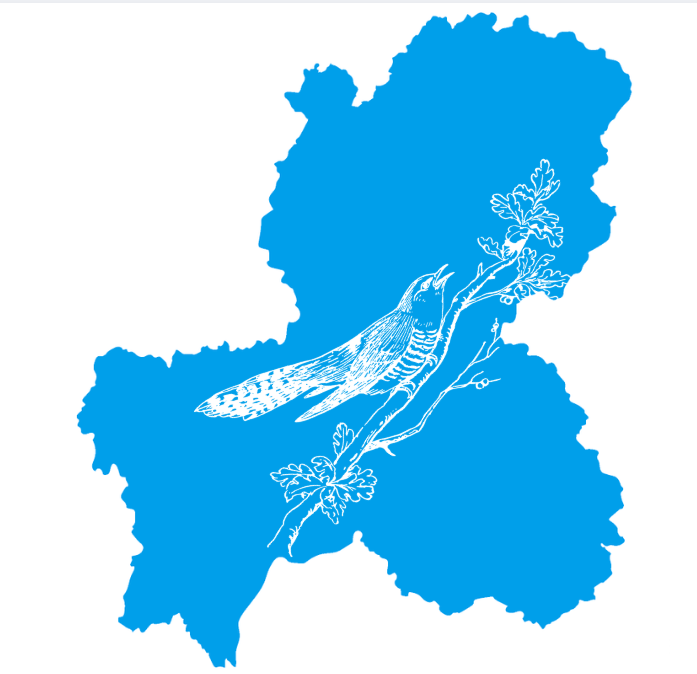
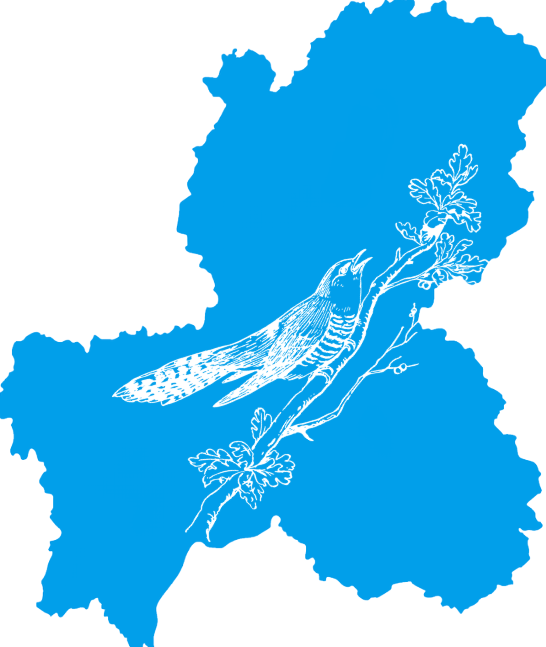
画像ダウンロードページを実装・画像ファイルを更新
- testver: ダウンロードページを準備中からカードグリッド型の画像DLページに変更
- 画像3枚（ぽぽりん・ポポと岐阜・ぽぽりんロゴ）のプレビュー＋DLボタン
- ポポと岐阜.png・ぽぽりんロゴ透過.png を最新版に更新
- 画像サイズ表記を実サイズに修正（800×800 / 546×647 / 1500×500）
- ガイドラインへのページ内リンクを script.js に追加

Changed region(s): [[0.0, 0.0, 1.0, 1.0], [0.4982, 0.0927, 0.5604, 0.1546], [0.5604, 0.0618, 0.5916, 0.0927]]

diff --git a/testver/index.html b/testver/index.html
@@ -8,7 +8,7 @@
     <meta http-equiv="Pragma" content="no-cache">
     <meta http-equiv="Expires" content="0">
     <title>ぽぽりん 公式サイト</title>
-    <link rel="stylesheet" href="style.css?v=20260510">
+    <link rel="stylesheet" href="style.css?v=20260510b">
     <link rel="preconnect" href="https://fonts.googleapis.com">
     <link rel="preconnect" href="https://fonts.gstatic.com" crossorigin>
     <link href="https://fonts.googleapis.com/css2?family=Barlow+Condensed:wght@700;800&family=M+PLUS+1p:wght@400;700;800&display=swap" rel="stylesheet">
@@ -217,18 +217,66 @@
         </section>
 
         <!-- ダウンロードページ -->
-        <section id="page-download" class="scene scene-empty">
-            <div class="empty">
-                <div class="empty__watermark" aria-hidden="true">DOWNLOAD</div>
-                <svg class="empty__svg" viewBox="0 0 64 64" fill="none" xmlns="http://www.w3.org/2000/svg" aria-hidden="true">
-                    <line x1="32" y1="8" x2="32" y2="42" stroke="currentColor" stroke-width="2.5" stroke-linecap="round"/>
-                    <polyline points="20,30 32,42 44,30" stroke="currentColor" stroke-width="2.5" stroke-linecap="round" stroke-linejoin="round"/>
-                    <path d="M8 46v8a2 2 0 002 2h44a2 2 0 002-2v-8" stroke="currentColor" stroke-width="2.5" stroke-linecap="round"/>
-                </svg>
-                <span class="empty__en">COMING SOON</span>
-                <h2 class="empty__title">ダウンロード</h2>
-                <div class="empty__rule"></div>
-                <p class="empty__sub">準備中...</p>
+        <section id="page-download" class="scene scene-download">
+            <div class="dl-page-wrap">
+
+                <header class="scene-header appear-up">
+                    <span class="scene-header__en">IMAGE DOWNLOAD</span>
+                    <h2 class="scene-header__title">画像ダウンロード</h2>
+                    <div class="scene-header__rule"></div>
+                </header>
+
+                <p class="dl-page-note appear-up">ご利用の際は<a href="#guidelines" class="dl-page-note__link">画像ガイドライン</a>をご確認ください。</p>
+
+                <div class="dl-card-grid">
+
+                    <div class="dl-card appear-up">
+                        <div class="dl-card__thumb">
+                            <img src="../画像/ぽぽりん.png" alt="ぽぽりん" class="dl-card__img">
+                        </div>
+                        <div class="dl-card__body">
+                            <span class="dl-card__label">CHARACTER</span>
+                            <h3 class="dl-card__name">ぽぽりん</h3>
+                            <p class="dl-card__desc">背景透過 PNG（800×800px）</p>
+                            <a href="../画像/ぽぽりん.png" download="ぽぽりん.png" class="dl-btn">
+                                <span class="dl-btn__icon" aria-hidden="true">↓</span>
+                                ダウンロード
+                            </a>
+                        </div>
+                    </div>
+
+                    <div class="dl-card appear-up">
+                        <div class="dl-card__thumb dl-card__thumb--illust">
+                            <img src="../画像/ポポと岐阜.png" alt="ポポと岐阜" class="dl-card__img">
+                        </div>
+                        <div class="dl-card__body">
+                            <span class="dl-card__label">ILLUSTRATION</span>
+                            <h3 class="dl-card__name">ポポと岐阜</h3>
+                            <p class="dl-card__desc">背景透過 PNG（546×647px）</p>
+                            <a href="../画像/ポポと岐阜.png" download="ポポと岐阜.png" class="dl-btn">
+                                <span class="dl-btn__icon" aria-hidden="true">↓</span>
+                                ダウンロード
+                            </a>
+                        </div>
+                    </div>
+
+                    <div class="dl-card appear-up">
+                        <div class="dl-card__thumb dl-card__thumb--logo">
+                            <img src="../画像/ぽぽりんロゴ透過.png" alt="ぽぽりんロゴ" class="dl-card__img">
+                        </div>
+                        <div class="dl-card__body">
+                            <span class="dl-card__label">LOGO</span>
+                            <h3 class="dl-card__name">ぽぽりんロゴ</h3>
+                            <p class="dl-card__desc">背景透過 PNG（1500×500px）</p>
+                            <a href="../画像/ぽぽりんロゴ透過.png" download="ぽぽりんロゴ透過.png" class="dl-btn">
+                                <span class="dl-btn__icon" aria-hidden="true">↓</span>
+                                ダウンロード
+                            </a>
+                        </div>
+                    </div>
+
+                </div>
+
             </div>
         </section>
 
@@ -457,6 +505,6 @@
         <span class="kv-footer__copy">総責任者 / Hochik1su &nbsp;|&nbsp; ぽぽりん 公式サイト</span>
     </footer>
 
-    <script src="script.js?v=20260510"></script>
+    <script src="script.js?v=20260510b"></script>
 </body>
 </html>

diff --git a/testver/style.css b/testver/style.css
@@ -886,6 +886,111 @@ main { padding-top: var(--nav-h); }
 }
 
 /* ===================================================
+   DOWNLOAD PAGE
+   =================================================== */
+.scene-download {
+    background: var(--p-bg);
+    padding: 64px 40px 80px;
+}
+
+.scene-download.active { display: block; }
+
+.dl-page-wrap {
+    max-width: 960px;
+    margin: 0 auto;
+}
+
+.dl-page-note {
+    font-size: 0.9rem;
+    color: var(--p-muted);
+    margin-bottom: 40px;
+}
+
+.dl-page-note__link {
+    color: var(--p-blue);
+    text-decoration: underline;
+    text-underline-offset: 3px;
+}
+
+.dl-card-grid {
+    display: grid;
+    grid-template-columns: repeat(3, 1fr);
+    gap: 24px;
+}
+
+.dl-card {
+    background: var(--p-surface);
+    border-radius: 16px;
+    overflow: hidden;
+    box-shadow: 0 2px 12px rgba(45, 107, 196, 0.08);
+    display: flex;
+    flex-direction: column;
+    transition: box-shadow 0.2s, transform 0.2s;
+}
+
+.dl-card:hover {
+    box-shadow: 0 6px 24px rgba(45, 107, 196, 0.16);
+    transform: translateY(-3px);
+}
+
+.dl-card__thumb {
+    height: 200px;
+    background: var(--p-bg);
+    display: flex;
+    align-items: center;
+    justify-content: center;
+    overflow: hidden;
+}
+
+.dl-card__thumb--logo {
+    background: #eef3fb;
+}
+
+.dl-card__img {
+    max-width: 100%;
+    max-height: 100%;
+    object-fit: contain;
+    padding: 16px;
+}
+
+.dl-card__body {
+    padding: 20px 20px 24px;
+    display: flex;
+    flex-direction: column;
+    gap: 6px;
+    flex: 1;
+}
+
+.dl-card__label {
+    font-family: var(--font-en);
+    font-size: 0.7rem;
+    font-weight: 700;
+    letter-spacing: 0.12em;
+    color: var(--p-blue);
+    opacity: 0.7;
+}
+
+.dl-card__name {
+    font-size: 1.25rem;
+    font-weight: 800;
+    color: var(--p-text);
+}
+
+.dl-card__desc {
+    font-size: 0.82rem;
+    color: var(--p-muted);
+    margin-bottom: 10px;
+}
+
+.dl-card .dl-btn {
+    margin-top: auto;
+    width: 100%;
+    justify-content: center;
+    font-size: 0.9rem;
+    padding: 10px 16px;
+}
+
+/* ===================================================
    SCENE HEADER（利用規約・ガイドライン共通）
    =================================================== */
 .scene-header { margin-bottom: 28px; }
@@ -1672,6 +1777,11 @@ main { padding-top: var(--nav-h); }
         transform: none;
     }
 
+    /* === DOWNLOAD === */
+    .scene-download { padding: 40px 20px 56px; }
+    .dl-card-grid { grid-template-columns: 1fr; gap: 16px; }
+    .dl-card__thumb { height: 180px; }
+
     /* === TERMS & GUIDELINES === */
     .scene-terms, .scene-guidelines { padding: 40px 20px 56px; }
     .rule-tab-btn__label { font-size: 0.7rem; }
@@ -1707,6 +1817,8 @@ main { padding-top: var(--nav-h); }
     .chapter__accent--img { height: 180px; }
 
     .scene-header__title { font-size: 1.9rem; }
+    .scene-download { padding: 32px 16px 48px; }
+    .dl-card__thumb { height: 160px; }
     .scene-terms, .scene-guidelines { padding: 32px 16px 48px; }
     .scene-contact { padding: 40px 16px 52px; }
     .contact-block__title { font-size: 1.9rem; }

diff --git a/testver/script.js b/testver/script.js
@@ -101,6 +101,17 @@ document.querySelector('.kv-nav__logo').addEventListener('click', () => {
     switchPage('home');
 });
 
+// ページ内リンク（#guidelines など）
+document.querySelectorAll('a[href^="#"]').forEach(link => {
+    const page = link.getAttribute('href').slice(1);
+    if (pageOrder.includes(page)) {
+        link.addEventListener('click', e => {
+            e.preventDefault();
+            switchPage(page);
+        });
+    }
+});
+
 // ===================================================
 // 全画面モバイルメニュー
 // ===================================================

diff --git a/CLAUDE.md b/CLAUDE.md
@@ -28,7 +28,7 @@ GitHub Pages（`rankaku0425.github.io`）で公開されている。
 ├── 画像/                   # 共有画像アセット
 │   ├── ぽぽりん.png         # キャラクター画像（背景透過PNG）
 │   ├── ポポと岐阜.png       # 概要ページ Chapter 2 用
-│   ├── ぽぽりんロゴ透過.png  # 概要ページ Chapter 3 用（ロゴ、860×350px）
+│   ├── ぽぽりんロゴ透過.png  # 概要ページ Chapter 3 用（ロゴ、1500×500px）
 │   └── top.png 等
 ├── UTAU音源「ぽぽりん」利用規約.pdf
 ├── ぽぽりん画像ガイドライン.pdf
